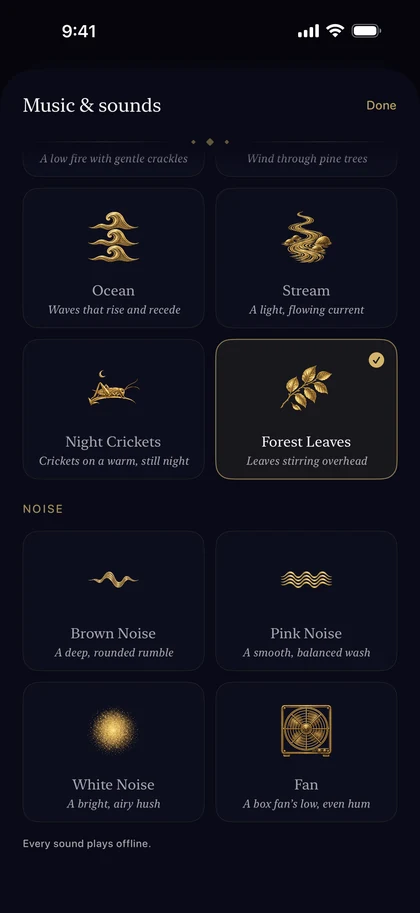
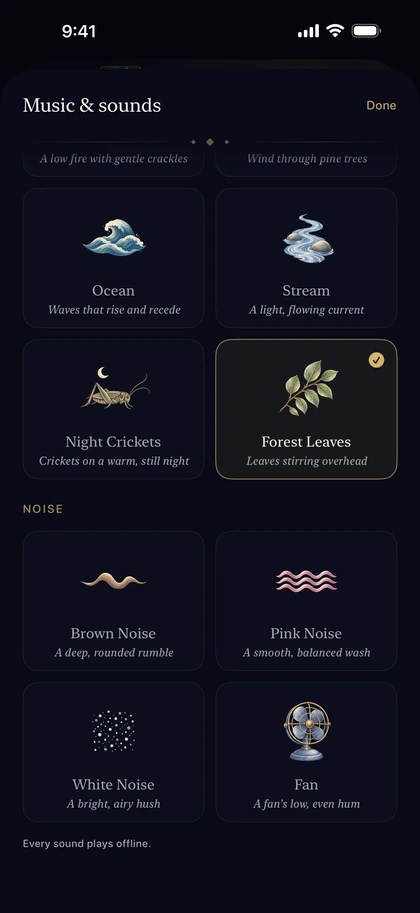
Refresh Nightshelf Sounds screenshots for build 62

diff --git a/nightshelf/index.html b/nightshelf/index.html
@@ -161,9 +161,9 @@
 </div></div></section>
 
 <section class="experience section" id="screens"><div class="container"><div class="section-header"><div><p class="eyebrow">Made for the last minutes of the day</p><h2>Less to do.<br>More to drift into.</h2></div><p>Choose a story. Make the room your own.<br>Let Nightshelf take it from there.</p></div>
-<div class="gallery-controls"><p>Inside Nightshelf <span>· Screens from version 1.9.10</span></p><div><button type="button" class="gallery-prev circle-button" aria-label="Previous app screens">←</button><button type="button" class="gallery-next circle-button" aria-label="Next app screens">→</button></div></div>
+<div class="gallery-controls"><p>Inside Nightshelf <span>· Real screens from Nightshelf.</span></p><div><button type="button" class="gallery-prev circle-button" aria-label="Previous app screens">←</button><button type="button" class="gallery-next circle-button" aria-label="Next app screens">→</button></div></div>
 <div class="screen-gallery" tabindex="0" role="region" aria-label="Nightshelf app screenshots; scroll to explore">
-<figure class="screen-card"><div class="device"><a class="screen-open" href="shots/20261007/home.jpg" target="_blank" rel="noopener" aria-label="View full-size screenshot: Nightshelf home with illustrated books saved for later and the bedtime story creator."><picture class=""><source type="image/webp" srcset="shots/20261007/home-small.webp 420w, shots/20261007/home.webp 840w" sizes="(max-width: 600px) 70vw, 320px"><img src="shots/20261007/home.jpg" alt="Nightshelf home with illustrated books saved for later and the bedtime story creator." width="840" height="1825" loading="lazy"  data-allow-duplicate="true"></picture></a></div><figcaption><h3>A shelf that feels like yours</h3><p>Keep favorites close and find something for tonight.</p></figcaption></figure><figure class="screen-card"><div class="device"><a class="screen-open" href="shots/20261007/reader.jpg" target="_blank" rel="noopener" aria-label="View full-size screenshot: Nightshelf reader paused on The Wind in the Willows, with playback controls and a 30-minute sleep timer."><picture class=""><source type="image/webp" srcset="shots/20261007/reader-small.webp 420w, shots/20261007/reader.webp 840w" sizes="(max-width: 600px) 70vw, 320px"><img src="shots/20261007/reader.jpg" alt="Nightshelf reader paused on The Wind in the Willows, with playback controls and a 30-minute sleep timer." width="840" height="1825" loading="lazy"  data-allow-duplicate="true"></picture></a></div><figcaption><h3>Your story. Your pace.</h3><p>Read along, listen, and let the sleep timer fade out.</p></figcaption></figure><figure class="screen-card"><div class="device"><a class="screen-open" href="shots/20261007/voices.jpg" target="_blank" rel="noopener" aria-label="View full-size screenshot: Nightshelf voice picker with Mira and Rowan AI narrators and installed device voice options."><picture class=""><source type="image/webp" srcset="shots/20261007/voices-small.webp 420w, shots/20261007/voices.webp 840w" sizes="(max-width: 600px) 70vw, 320px"><img src="shots/20261007/voices.jpg" alt="Nightshelf voice picker with Mira and Rowan AI narrators and installed device voice options." width="840" height="1825" loading="lazy"  data-allow-duplicate="true"></picture></a></div><figcaption><h3>Find your evening voice</h3><p>Mira and Rowan bring a different warmth to the page.</p></figcaption></figure><figure class="screen-card"><div class="device"><a class="screen-open" href="shots/20261007/sounds.jpg" target="_blank" rel="noopener" aria-label="View full-size screenshot: Nightshelf Music and sounds showing nature recordings and noise options."><picture class=""><source type="image/webp" srcset="shots/20261007/sounds-small.webp 420w, shots/20261007/sounds.webp 840w" sizes="(max-width: 600px) 70vw, 320px"><img src="shots/20261007/sounds.jpg" alt="Nightshelf Music and sounds showing nature recordings and noise options." width="840" height="1825" loading="lazy"  data-allow-duplicate="true"></picture></a></div><figcaption><h3>A little atmosphere</h3><p>Rain, leaves, music, and more, beneath the story.</p></figcaption></figure><figure class="screen-card"><div class="device"><a class="screen-open" href="shots/20261007/story.jpg" target="_blank" rel="noopener" aria-label="View full-size screenshot: Nightshelf Bedtime Story form with language, story idea, mood and length controls."><picture class=""><source type="image/webp" srcset="shots/20261007/story-small.webp 420w, shots/20261007/story.webp 840w" sizes="(max-width: 600px) 70vw, 320px"><img src="shots/20261007/story.jpg" alt="Nightshelf Bedtime Story form with language, story idea, mood and length controls." width="840" height="1825" loading="lazy"  data-allow-duplicate="true"></picture></a></div><figcaption><h3>Something only for tonight</h3><p>Choose an idea and mood. Pro writes a new story with AI.</p></figcaption></figure></div><p class="gallery-footnote">Tap a screen to see it up close. Some features require Nightshelf Pro. Availability follows your installed version.</p></div></section>
+<figure class="screen-card"><div class="device"><a class="screen-open" href="shots/20261007/home.jpg" target="_blank" rel="noopener" aria-label="View full-size screenshot: Nightshelf home with illustrated books saved for later and the bedtime story creator."><picture class=""><source type="image/webp" srcset="shots/20261007/home-small.webp 420w, shots/20261007/home.webp 840w" sizes="(max-width: 600px) 70vw, 320px"><img src="shots/20261007/home.jpg" alt="Nightshelf home with illustrated books saved for later and the bedtime story creator." width="840" height="1825" loading="lazy"  data-allow-duplicate="true"></picture></a></div><figcaption><h3>A shelf that feels like yours</h3><p>Keep favorites close and find something for tonight.</p></figcaption></figure><figure class="screen-card"><div class="device"><a class="screen-open" href="shots/20261007/reader.jpg" target="_blank" rel="noopener" aria-label="View full-size screenshot: Nightshelf reader paused on The Wind in the Willows, with playback controls and a 30-minute sleep timer."><picture class=""><source type="image/webp" srcset="shots/20261007/reader-small.webp 420w, shots/20261007/reader.webp 840w" sizes="(max-width: 600px) 70vw, 320px"><img src="shots/20261007/reader.jpg" alt="Nightshelf reader paused on The Wind in the Willows, with playback controls and a 30-minute sleep timer." width="840" height="1825" loading="lazy"  data-allow-duplicate="true"></picture></a></div><figcaption><h3>Your story. Your pace.</h3><p>Read along, listen, and let the sleep timer fade out.</p></figcaption></figure><figure class="screen-card"><div class="device"><a class="screen-open" href="shots/20261007/voices.jpg" target="_blank" rel="noopener" aria-label="View full-size screenshot: Nightshelf voice picker with Mira and Rowan AI narrators and installed device voice options."><picture class=""><source type="image/webp" srcset="shots/20261007/voices-small.webp 420w, shots/20261007/voices.webp 840w" sizes="(max-width: 600px) 70vw, 320px"><img src="shots/20261007/voices.jpg" alt="Nightshelf voice picker with Mira and Rowan AI narrators and installed device voice options." width="840" height="1825" loading="lazy"  data-allow-duplicate="true"></picture></a></div><figcaption><h3>Find your evening voice</h3><p>Mira and Rowan bring a different warmth to the page.</p></figcaption></figure><figure class="screen-card"><div class="device"><a class="screen-open" href="shots/20261007/sounds.jpg?v=20261007-soundart62" target="_blank" rel="noopener" aria-label="View full-size screenshot: Nightshelf Music and sounds showing nature recordings and noise options."><picture class=""><source type="image/webp" srcset="shots/20261007/sounds-small.webp?v=20261007-soundart62 420w, shots/20261007/sounds.webp?v=20261007-soundart62 840w" sizes="(max-width: 600px) 70vw, 320px"><img src="shots/20261007/sounds.jpg?v=20261007-soundart62" alt="Nightshelf Music and sounds showing nature recordings and noise options." width="840" height="1825" loading="lazy"  data-allow-duplicate="true"></picture></a></div><figcaption><h3>A little atmosphere</h3><p>Rain, leaves, music, and more, beneath the story.</p></figcaption></figure><figure class="screen-card"><div class="device"><a class="screen-open" href="shots/20261007/story.jpg" target="_blank" rel="noopener" aria-label="View full-size screenshot: Nightshelf Bedtime Story form with language, story idea, mood and length controls."><picture class=""><source type="image/webp" srcset="shots/20261007/story-small.webp 420w, shots/20261007/story.webp 840w" sizes="(max-width: 600px) 70vw, 320px"><img src="shots/20261007/story.jpg" alt="Nightshelf Bedtime Story form with language, story idea, mood and length controls." width="840" height="1825" loading="lazy"  data-allow-duplicate="true"></picture></a></div><figcaption><h3>Something only for tonight</h3><p>Choose an idea and mood. Pro writes a new story with AI.</p></figcaption></figure></div><p class="gallery-footnote">Tap a screen to see it up close. Some features require Nightshelf Pro. Availability follows your installed version.</p></div></section>
 
 <section class="sound-section section" id="sound"><div class="container"><div class="sound-heading"><p class="eyebrow">A small preview of a quieter night</p><h2>Don’t just picture it.<br><em>Listen.</em></h2><p>A warm narrator. Rain at the window. Find what feels like winding down to you.</p></div><div class="sound-players">      <figure class="listen-card reveal" id="listen">
         <div class="listen-row">
